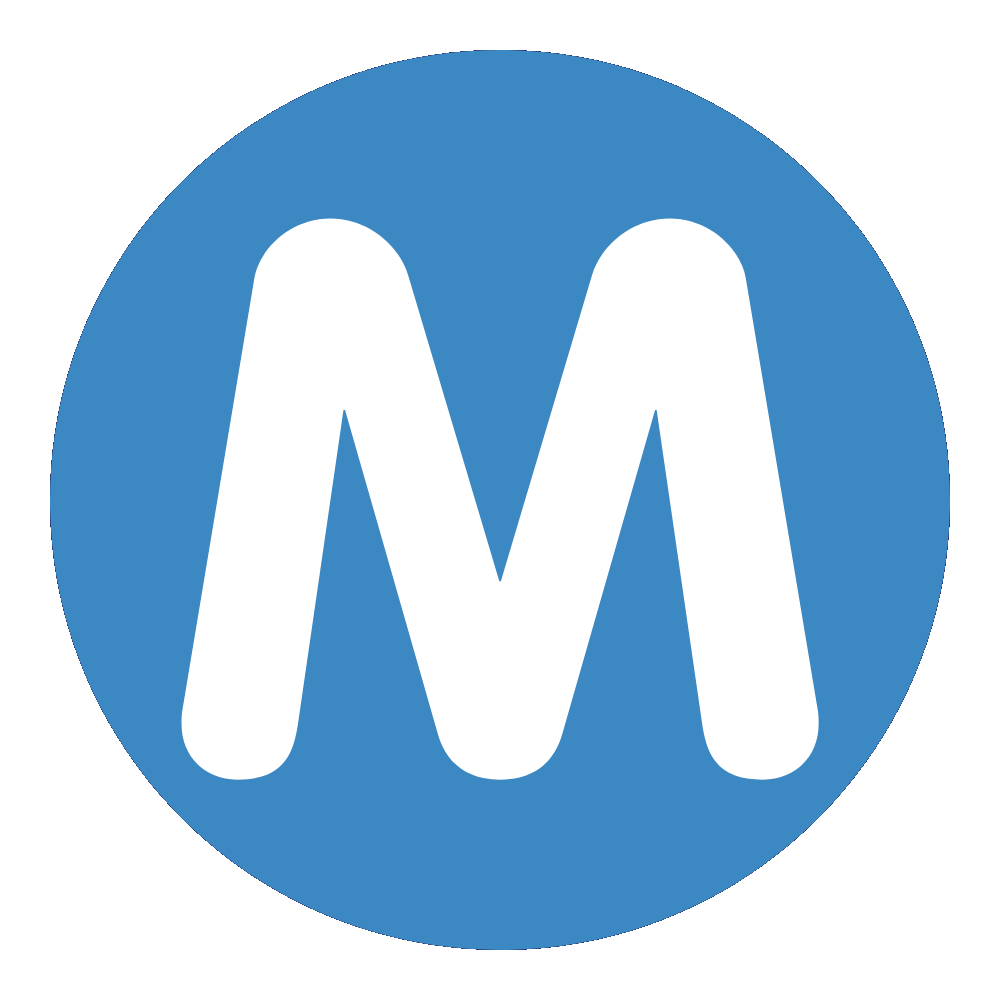
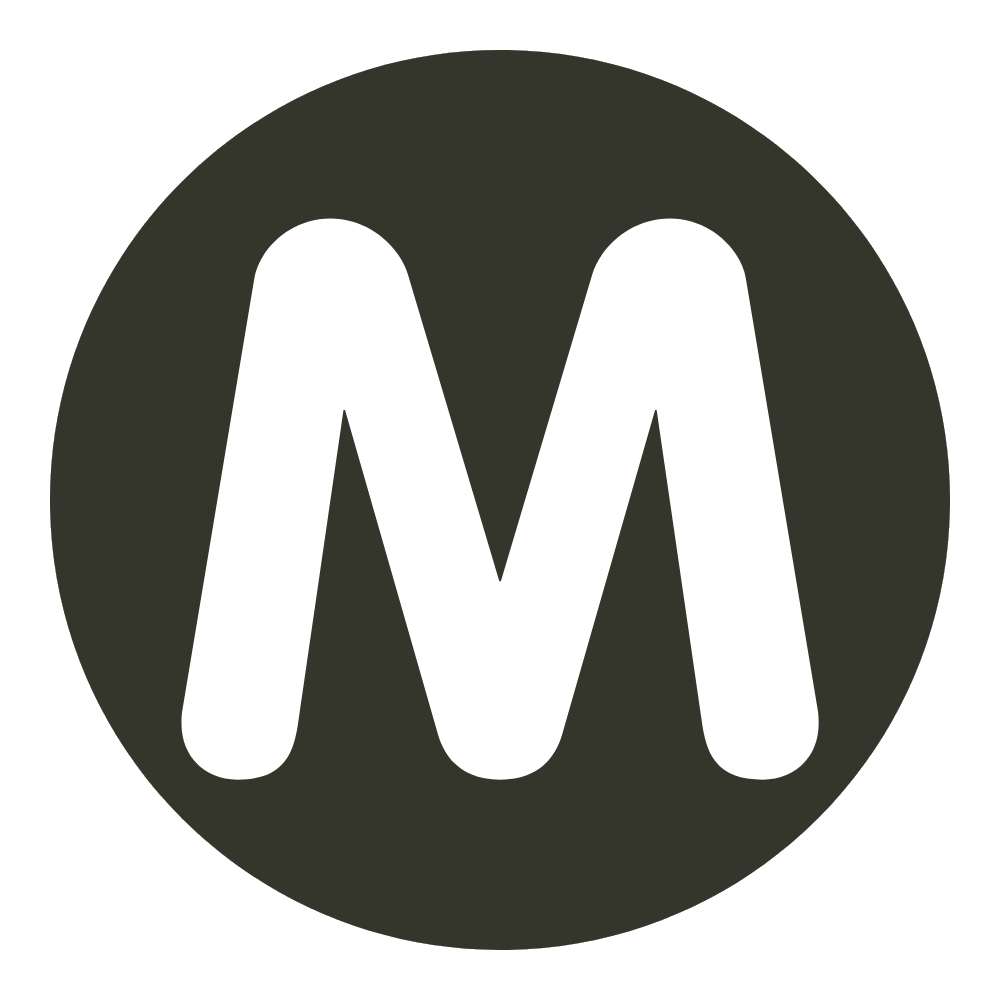
add landing page

diff --git a/src/components/styles/Home.module.css b/src/components/styles/Home.module.css
@@ -1,0 +1,88 @@
+* {
+  box-sizing: border-box;
+  margin: 0;
+  padding: 0;
+}
+
+html,
+body {
+  width: 100%;
+  height: 100%;
+}
+
+.Container {
+  display: grid;
+  height: 100vh;
+  grid-template-rows: 1fr 1fr;
+  grid-template-areas:
+    'box1 box2'
+    'box3 box4';
+  grid-column-gap: 10px;
+  grid-row-gap: 10px;
+}
+
+.Steelblue {
+  grid-area: box1;
+  background: url('https://images.pexels.com/photos/3642350/pexels-photo-3642350.jpeg?auto=compress&cs=tinysrgb&dpr=2&h=650&w=940');
+  background-repeat: no-repeat;
+  background-size: 100% 100%;
+  filter: grayscale(100%);
+  -webkit-filter: grayscale(100%);
+}
+
+.Salmon {
+  grid-area: box2;
+  background-color: #35362b;
+  display: inline-flex;
+  align-items: center;
+  justify-content: center;
+}
+
+.Mixtape {
+  font-family: 'Stardos Stencil', cursive;
+  text-transform: uppercase;
+  letter-spacing: 5.5px;
+  font-size: 28px;
+  text-decoration: none;
+  color: #ffffff;
+}
+
+.Cassette {
+  position: absolute;
+  width: 20%;
+  height: auto;
+}
+
+.Khaki {
+  grid-area: box3;
+  background-color: #35362b;
+
+  /* '.khaki' is the parent element of #cat, so these 3 lines are needed to center icon: */
+  display: inline-flex;
+  align-items: center;
+  justify-content: center;
+}
+
+#ambulance,
+#react,
+#cat,
+#coffee {
+  position: absolute;
+}
+
+.Violet {
+  grid-area: box4;
+  background: url('https://images.pexels.com/photos/4351683/pexels-photo-4351683.jpeg?auto=compress&cs=tinysrgb&dpr=2&h=650&w=940');
+  background-repeat: no-repeat;
+  background-size: 100% 100%;
+  filter: grayscale(100%);
+  -webkit-filter: grayscale(100%);
+}
+
+.Steelblue:hover,
+.Salmon:hover,
+.Khaki:hover,
+.Violet:hover {
+  filter: grayscale(0);
+  -webkit-filter: grayscale(0);
+}

diff --git a/src/components/pages/Home.js b/src/components/pages/Home.js
@@ -1,15 +1,54 @@
 import React from 'react';
+import { Link } from 'react-router-dom';
 import { Helmet } from 'react-helmet';
 import { Container } from 'react-bootstrap';
+import classes from '../styles/Home.module.css';
+// import cassette from '../../img/cassette.png';
 
 const Home = () => {
   return (
     <div>
       <Helmet>
         <title>Mixtape</title>
+        <style type='text/css'>{`
+        body {
+          background-color: #ffffff;
+          // background-color: #B2A996;
+        }
+
+        .container {
+          max-width: 100%;
+          height: 100%;
+          margin: auto;
+          overflow: hidden;
+          padding: 0;
+        }
+        
+        .navbar,
+        .footer {
+          display: none;
+        }
+    `}</style>
       </Helmet>
       <Container>
-        <h3>Home</h3>
+        <div className={classes.Container}>
+          <div className={classes.Steelblue}></div>
+          <div className={classes.Salmon}>
+            <p>
+              <Link className={classes.Mixtape} to='/artists'>
+                MIXTAPE
+              </Link>
+            </p>
+          </div>
+          <div className={classes.Khaki}>
+            <p>
+              <Link className={classes.Mixtape} to='/artists'>
+                MIXTAPE
+              </Link>
+            </p>
+          </div>
+          <div className={classes.Violet}></div>
+        </div>
       </Container>
     </div>
   );

diff --git a/src/components/pages/Artist.js b/src/components/pages/Artist.js
@@ -1,6 +1,7 @@
 import React, { useState, useEffect } from 'react';
 import { Helmet } from 'react-helmet';
 import { Container } from 'react-bootstrap';
+import classes from '../styles/Artist.module.css';
 import axios from 'axios';
 
 const Artist = ({ match }) => {
@@ -35,7 +36,7 @@ const Artist = ({ match }) => {
   };
 
   return (
-    <div>
+    <div className={classes.Container}>
       {data.map((item) => (
         <Helmet>
           <title>
@@ -79,7 +80,7 @@ const Artist = ({ match }) => {
           })}
           {data.map((item) => (
             <div style={info}>
-              <p style={{ fontSize: '24px', fontFamily: 'Quicksand' }}>
+              <p style={{ fontSize: '24px', fontFamily: 'Poppins' }}>
                 {item.album} ({item.year})
               </p>
 
@@ -87,7 +88,7 @@ const Artist = ({ match }) => {
                 style={{
                   fontSize: '18px',
                   fontWeight: '700',
-                  fontFamily: 'Quicksand',
+                  fontFamily: 'Poppins',
                 }}
               >
                 Track Listing
@@ -95,7 +96,7 @@ const Artist = ({ match }) => {
 
               {item.tracks.map((track, index) => (
                 <div key={index}>
-                  <p style={{ fontFamily: 'Quicksand' }}>{track}</p>
+                  <p style={{ fontFamily: 'Poppins' }}>{track}</p>
                 </div>
               ))}
             </div>

diff --git a/src/components/styles/ArtistList.module.css b/src/components/styles/ArtistList.module.css
@@ -1,5 +1,12 @@
+.Container {
+  max-width: 1100px;
+  margin: auto;
+  overflow: hidden;
+  /* padding: 0 2rem; */
+}
+
 .MainHeader {
-  font-family: 'Quicksand', sans-serif;
+  font-family: 'Poppins', sans-serif;
   text-align: center;
   font-weight: 700;
   margin-bottom: 20px;
@@ -22,17 +29,17 @@
 }
 
 .Artist {
-  font-family: 'Quicksand', sans-serif;
+  font-family: 'Poppins', sans-serif;
   font-weight: 700;
 }
 
 .AlbumInfo {
-  font-family: 'Quicksand', sans-serif;
+  font-family: 'Poppins', sans-serif;
   font-weight: 700;
 }
 
 .Tracks {
-  font-family: 'Quicksand', sans-serif;
+  font-family: 'Poppins', sans-serif;
   font-size: 15px;
 }
 
@@ -41,7 +48,7 @@
 }
 
 .TrackListing {
-  font-family: 'Quicksand', sans-serif;
+  font-family: 'Poppins', sans-serif;
   text-transform: uppercase;
   font-size: 16px;
   letter-spacing: 1px;
@@ -53,7 +60,7 @@
 }
 
 .WebsiteButton {
-  font-family: 'Quicksand', sans-serif;
+  font-family: 'Poppins', sans-serif;
   text-transform: uppercase;
   letter-spacing: 1px;
   background-color: #2c2c2c;

diff --git a/public/index.html b/public/index.html
@@ -8,9 +8,13 @@
   <meta name="theme-color" content="#000000" />
   <meta name="description" content="Web site created using create-react-app" />
   <link rel="apple-touch-icon" href="%PUBLIC_URL%/logo192.png" />
-  <!-- Google Fonts -->
+  <!-- Google Fonts Link -->
   <link rel="preconnect" href="https://fonts.gstatic.com">
   <link href="https://fonts.googleapis.com/css2?family=Stardos+Stencil:wght@400;700&display=swap" rel="stylesheet">
+  <link href="https://fonts.googleapis.com/css2?family=Poppins:wght@400;600;700&display=swap" rel="stylesheet">
+  <!-- Font Awesome link -->
+  <link rel="stylesheet" href="https://use.fontawesome.com/releases/v5.7.2/css/all.css"
+    integrity="sha384-fnmOCqbTlWIlj8LyTjo7mOUStjsKC4pOpQbqyi7RrhN7udi9RwhKkMHpvLbHG9Sr" crossorigin="anonymous">
   <link rel="manifest" href="%PUBLIC_URL%/manifest.json" />
 
   <title>Mixtape</title>

diff --git a/src/components/pages/ArtistList.js b/src/components/pages/ArtistList.js
@@ -3,7 +3,7 @@ import { Link } from 'react-router-dom';
 import { Helmet } from 'react-helmet';
 import { Container, Row, Col } from 'react-bootstrap';
 import Spinner from '../misc/Spinner';
-import classes from '../styles/Artists.module.css';
+import classes from '../styles/ArtistList.module.css';
 
 const ArtistList = () => {
   const [artists, setArtists] = useState([]);
@@ -41,12 +41,12 @@ const ArtistList = () => {
   // };
 
   return (
-    <div>
+    <div className={classes.Container}>
       <Helmet>
         <title>Mixtape | Artists</title>
       </Helmet>
       <Container>
-        <div className='App'>
+        <div>
           <h3 style={{ marginTop: '40px', marginBottom: '20px' }}>
             <strong>Artists</strong>
           </h3>

diff --git a/src/components/styles/Navigation.css b/src/components/styles/Navigation.css
@@ -4,14 +4,14 @@
   align-items: center;
   z-index: 1;
   width: 100%;
-  background-color: #2c2c2c !important;
-  /* margin-bottom: 1rem; */
+  background-color: #35362b !important;
+  margin-bottom: 1rem;
+  padding: 15px 0 25px 0;
 }
 
 .nav-title {
   font-family: 'Stardos Stencil', cursive;
   text-transform: uppercase;
-  /* font-family: 'Quicksand', sans-serif; */
   color: #ffeeff;
   font-size: 24px;
   font-weight: 700;
@@ -21,7 +21,6 @@
 }
 
 #links {
-  /* color: #c7d1d8 !important; */
   font-family: 'Quicksand', sans-serif;
   padding: 10px;
   margin-bottom: -15px;

diff --git a/src/index.css b/src/index.css
@@ -1,4 +1,4 @@
-body {
+/* body {
   margin: 0;
   font-family: -apple-system, BlinkMacSystemFont, 'Segoe UI', 'Roboto', 'Oxygen',
     'Ubuntu', 'Cantarell', 'Fira Sans', 'Droid Sans', 'Helvetica Neue',
@@ -10,4 +10,4 @@ body {
 code {
   font-family: source-code-pro, Menlo, Monaco, Consolas, 'Courier New',
     monospace;
-}
+} */

diff --git a/src/components/styles/Artist.module.css b/src/components/styles/Artist.module.css
@@ -1,0 +1,6 @@
+.Container {
+  max-width: 1100px;
+  margin: auto;
+  overflow: hidden;
+  /* padding: 0 2rem; */
+}
